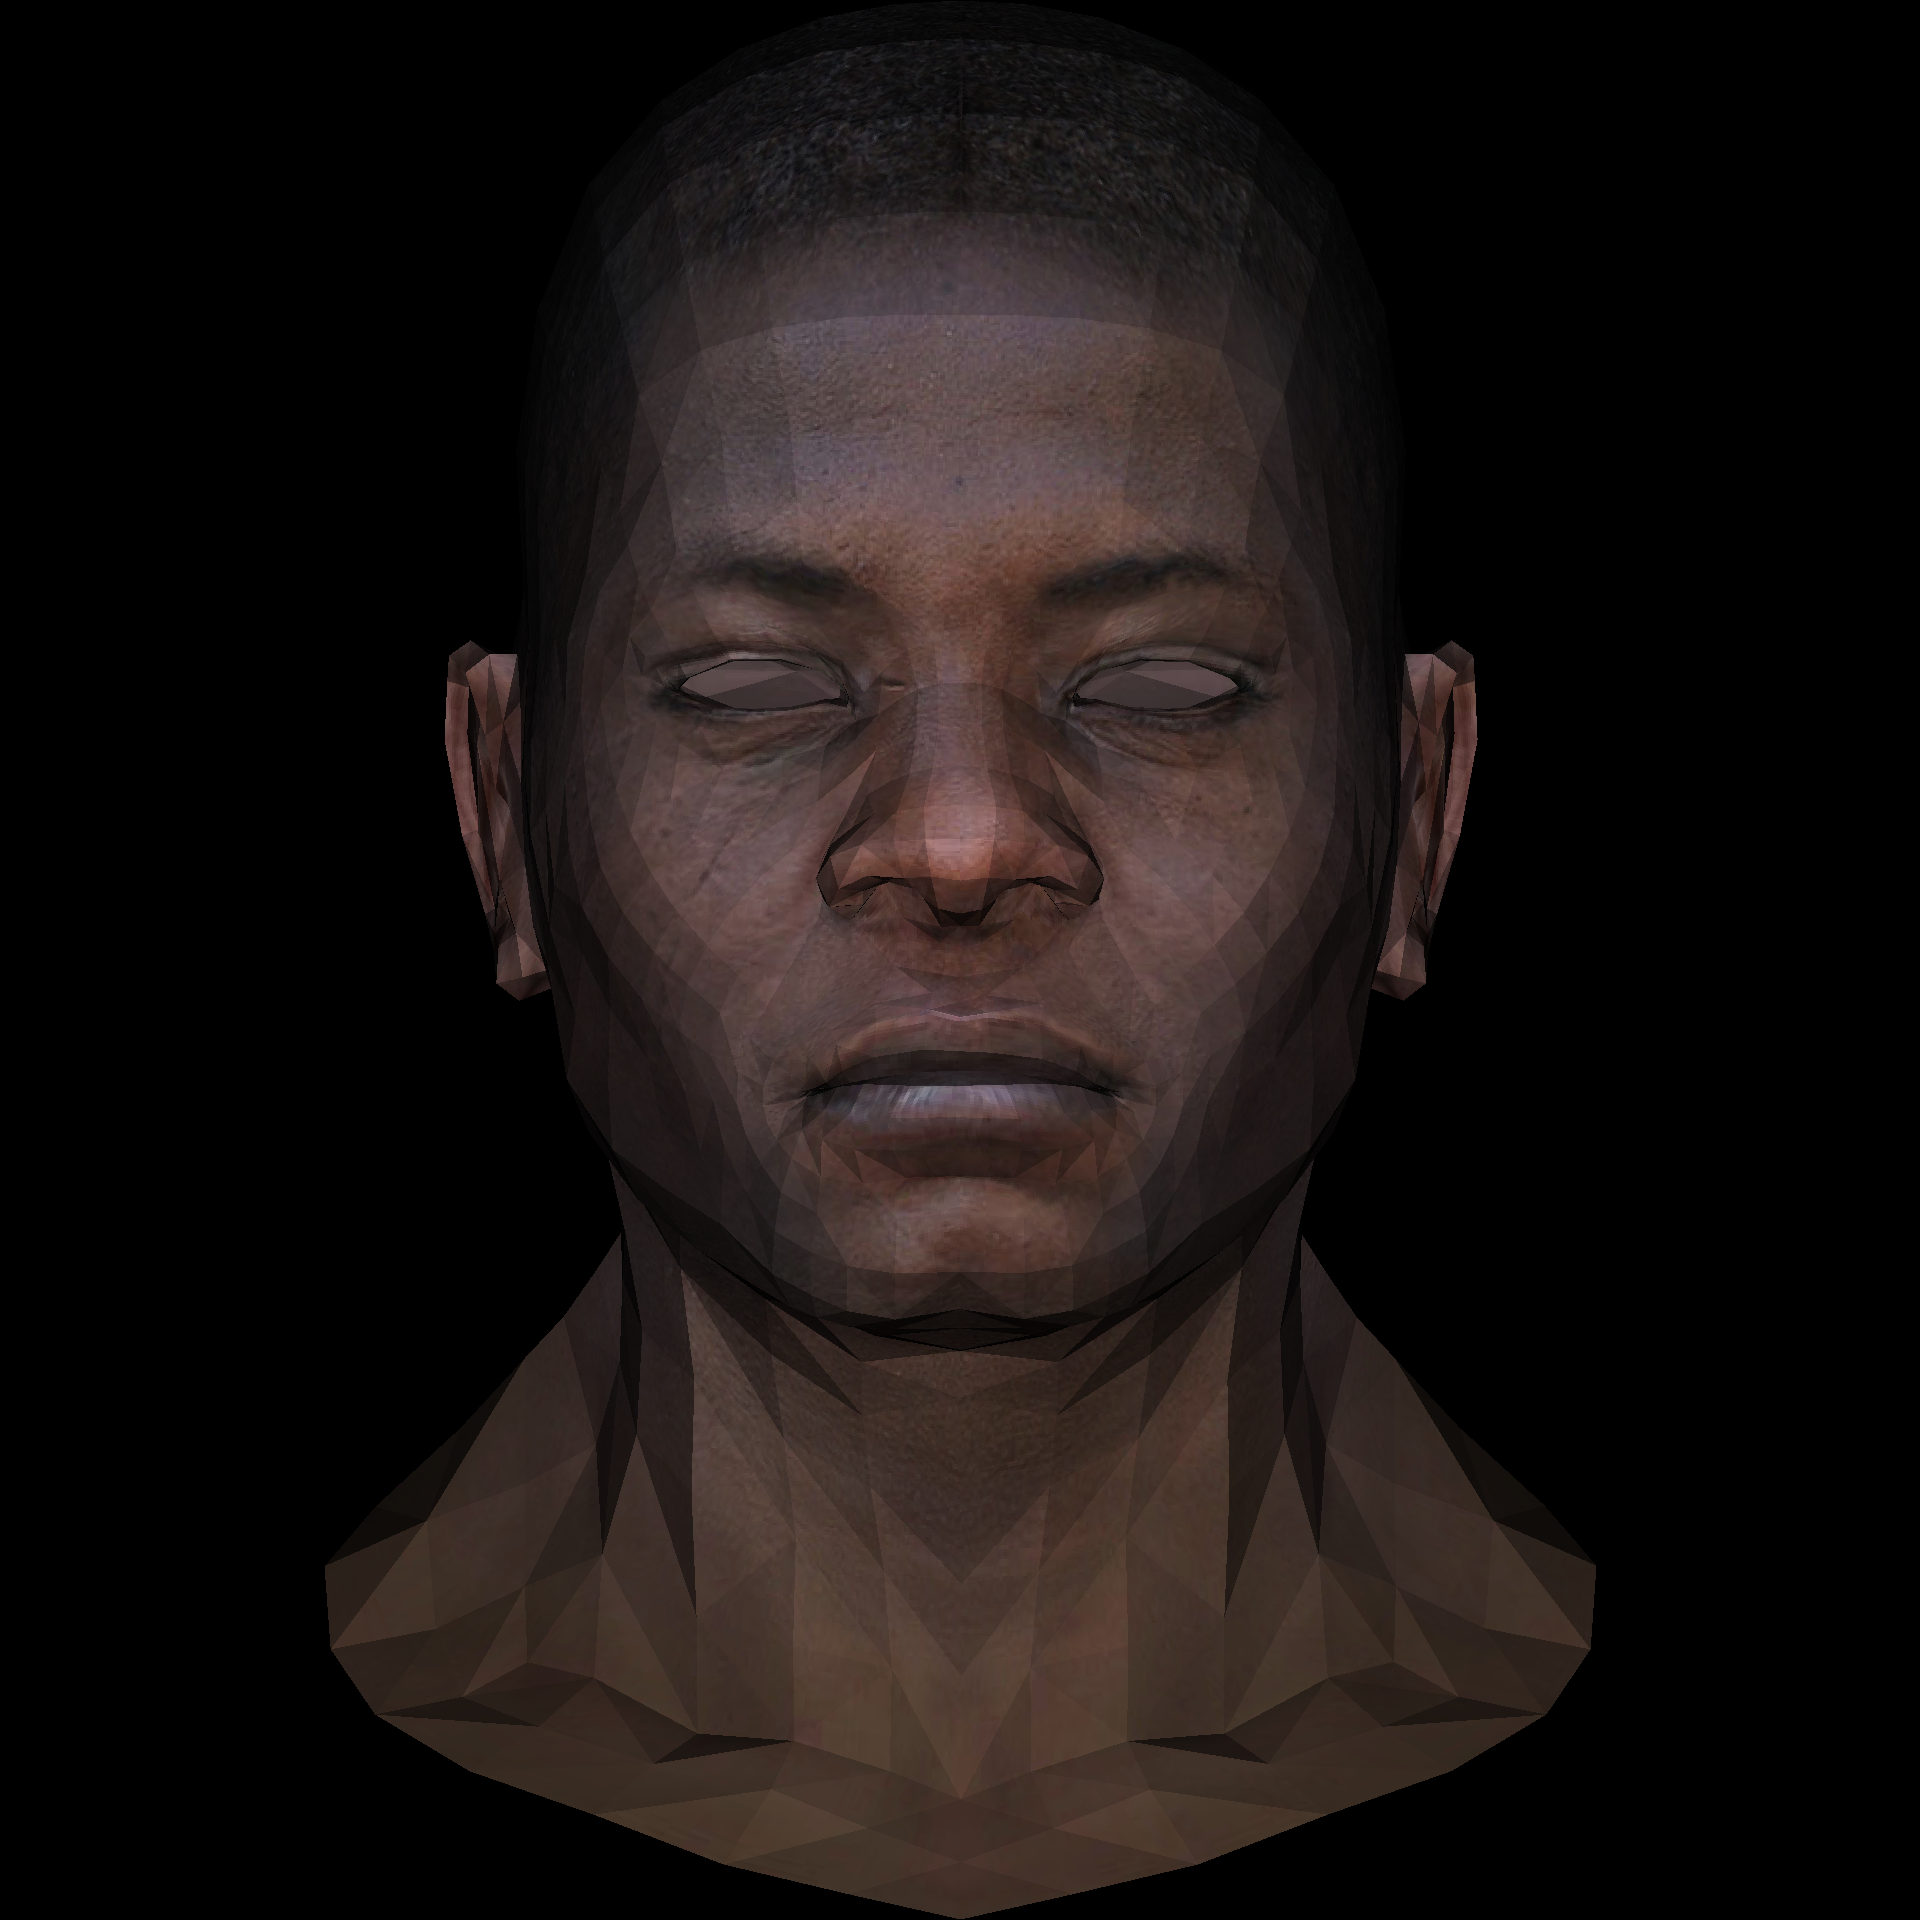
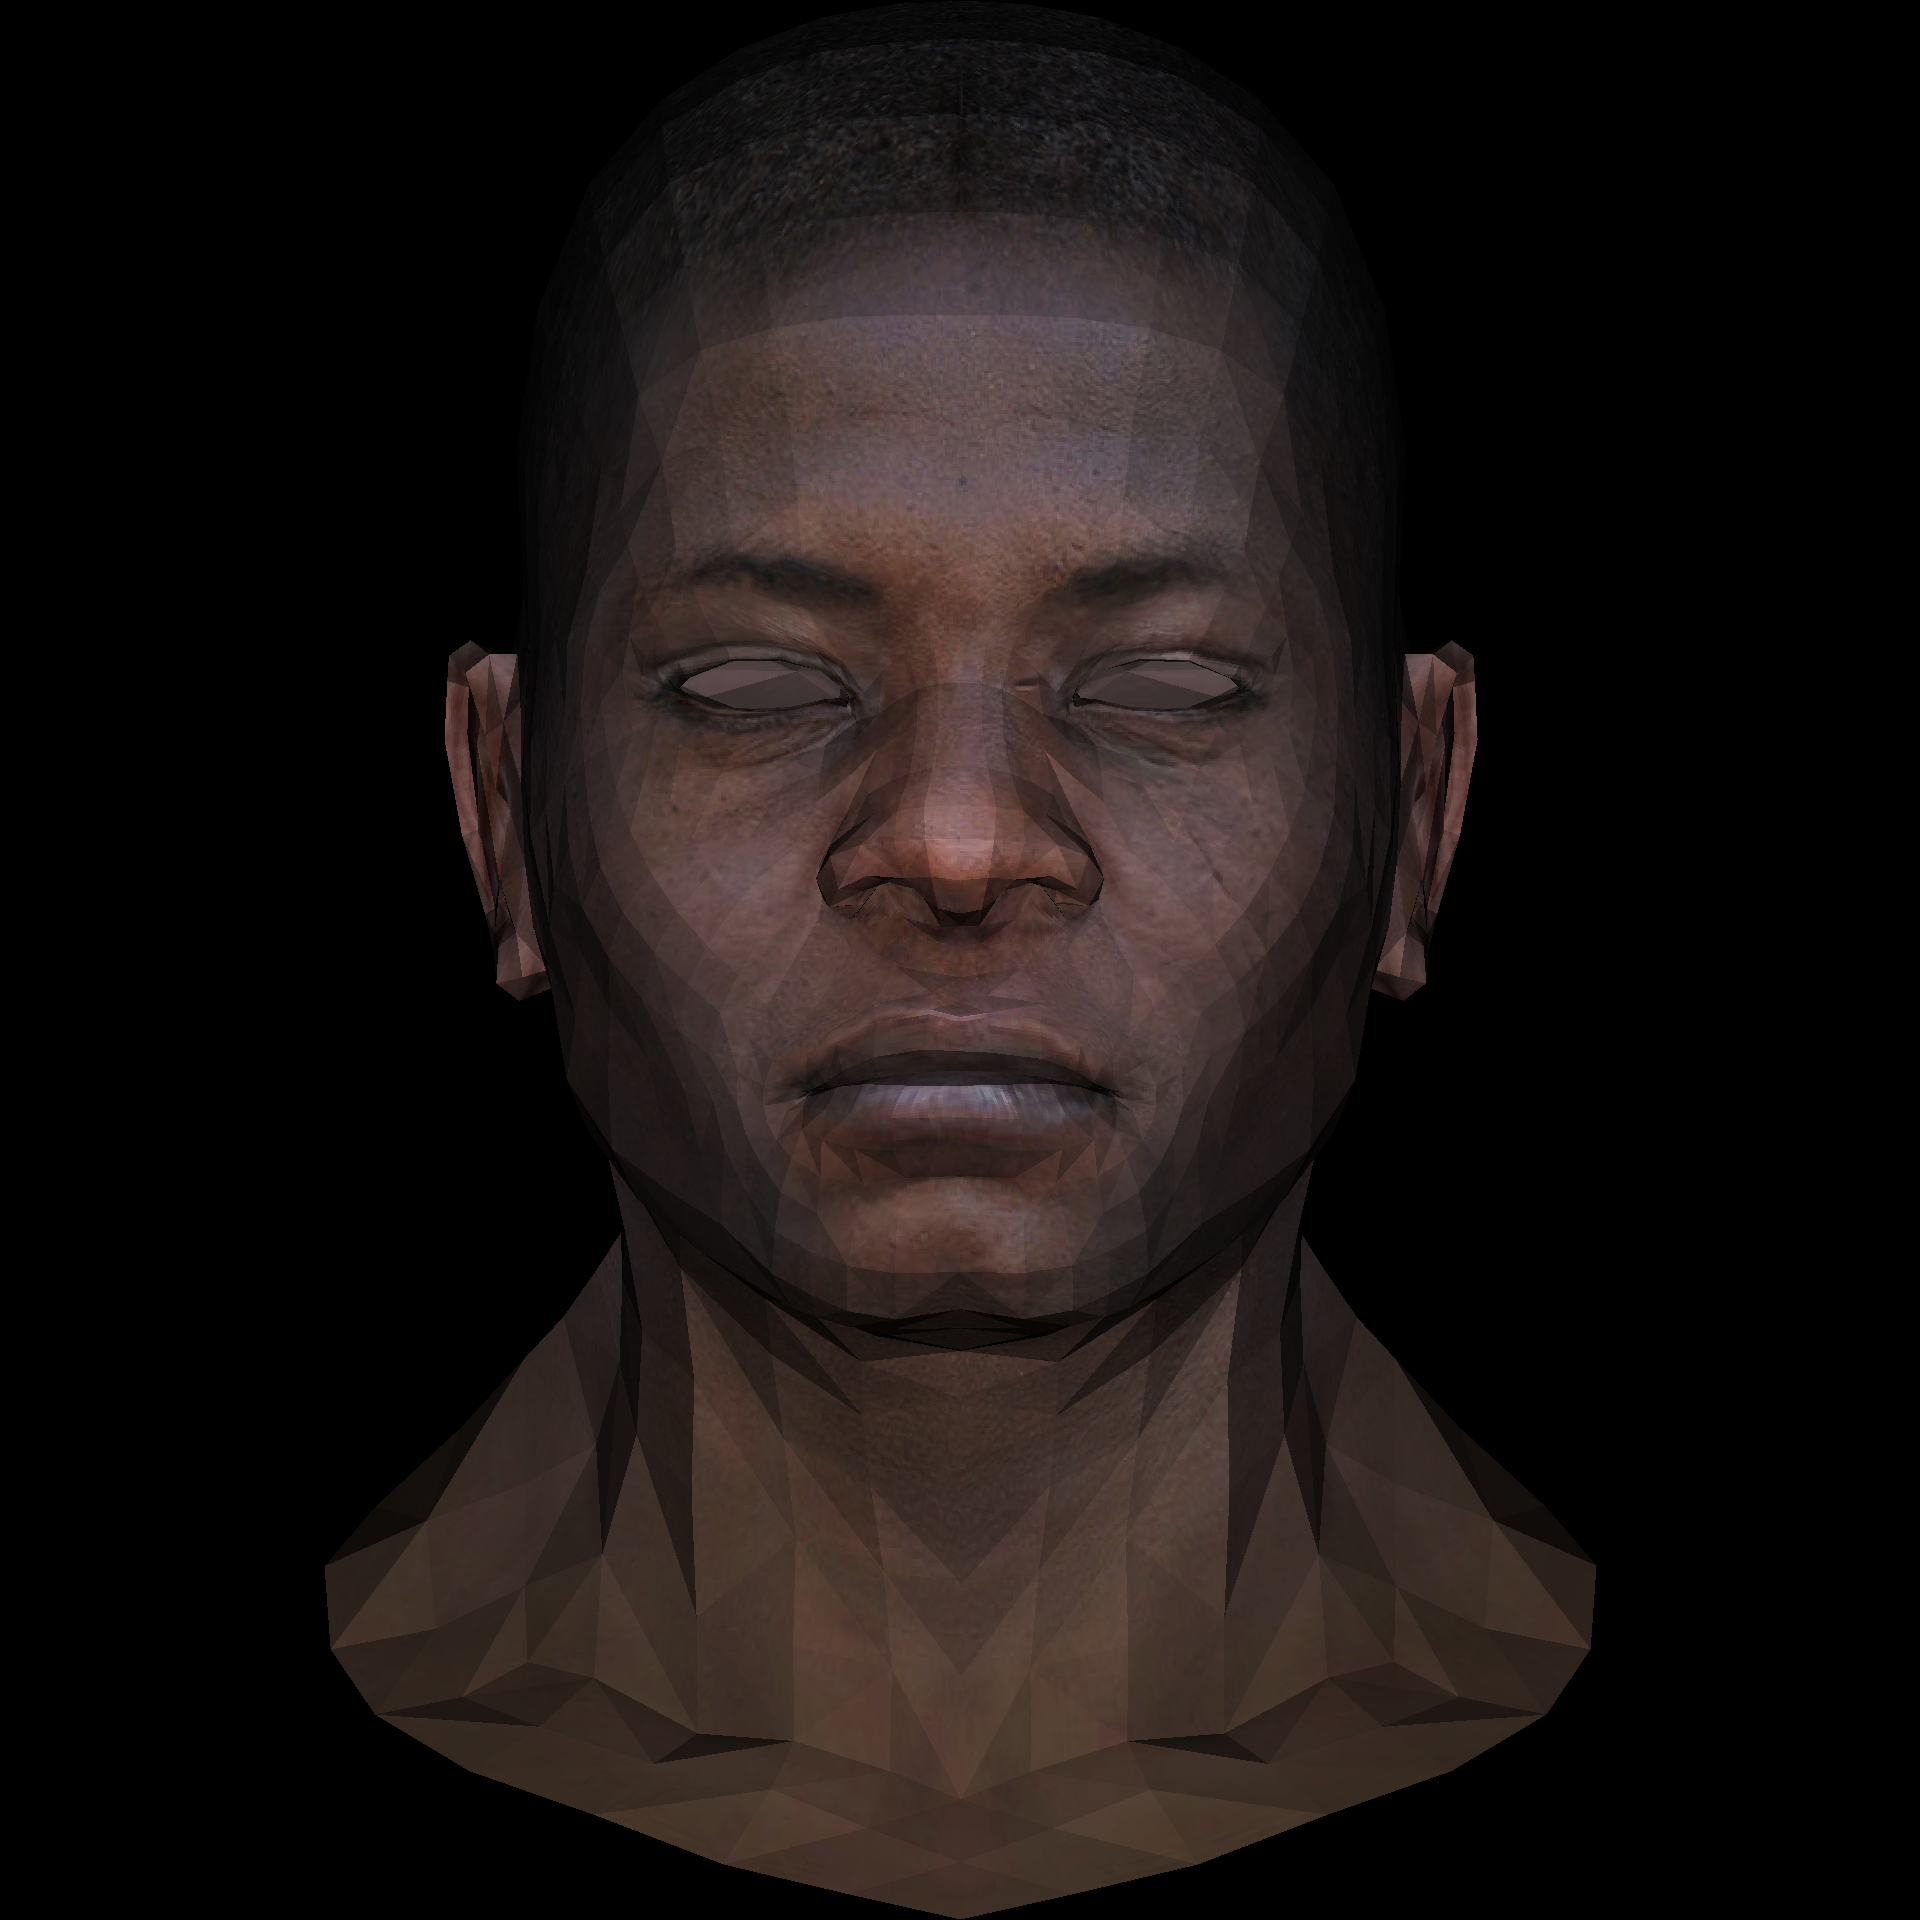
Fixed texture

diff --git a/src/lib.rs b/src/lib.rs
@@ -105,7 +105,7 @@ pub fn draw_object(object: WavefrontObject, img: &mut RgbImage, texture_map: &Dy
     let (w, h) = img.dimensions();
     let mut zbuffer: Vec<Vec<u8>> = vec![vec![0; h as usize]; w as usize];
 
-    let texture = texture_map.flipv().fliph();
+    let texture = texture_map.flipv();
     let texture = texture.as_rgb8().unwrap();
 
     for face in object.faces() {
